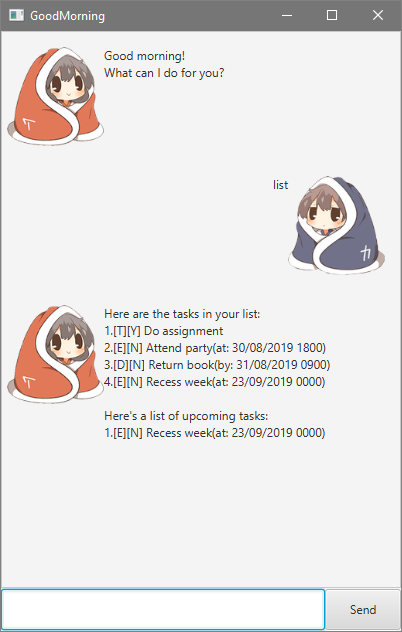
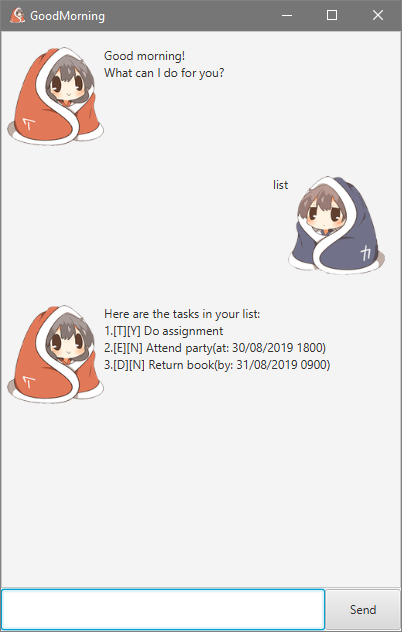
Edited user guide.

Changed region(s): [[0.2687, 0.5712, 0.806, 0.6915], [0.0, 0.0, 0.0597, 0.0601]]

diff --git a/src/main/java/duke/Main.java b/src/main/java/duke/Main.java
@@ -5,6 +5,7 @@ import java.io.IOException;
 import javafx.application.Application;
 import javafx.fxml.FXMLLoader;
 import javafx.scene.Scene;
+import javafx.scene.image.Image;
 import javafx.scene.layout.AnchorPane;
 import javafx.stage.Stage;
 
@@ -25,6 +26,7 @@ public class Main extends Application {
             Scene scene = new Scene(ap);
             stage.setScene(scene);
             fxmlLoader.<MainWindow>getController().setDuke(duke);
+            stage.getIcons().add(new Image("/images/goodmorning.png"));
             stage.setTitle("GoodMorning");
             stage.show();
         } catch (IOException e) {

diff --git a/docs/README.md b/docs/README.md
@@ -1,5 +1,7 @@
 # User Guide
 
+![Image of Ui](Ui.png)
+
 ### Outline
 1. Features
 1. Usage
